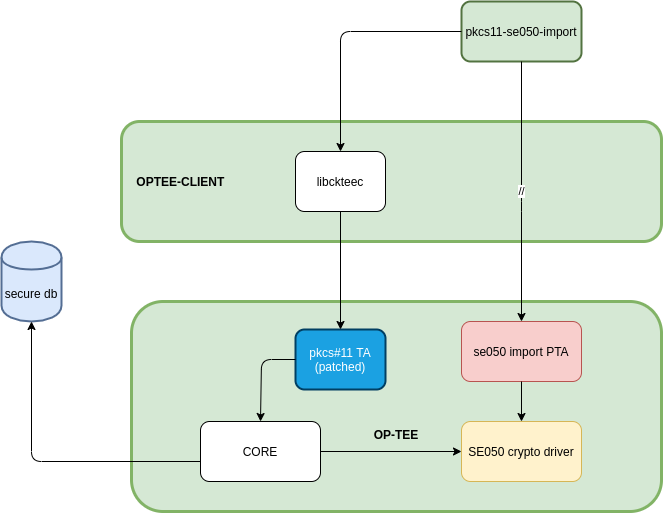
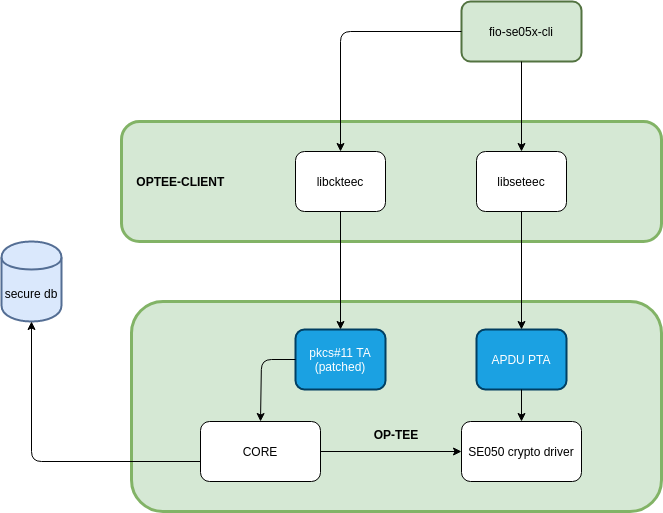
se050: update SCP03 information and provisioning
Updates to reflect the code changes.

diff --git a/source/reference-manual/security/secure-elements/secure-element.050.rst b/source/reference-manual/security/secure-elements/secure-element.050.rst
@@ -122,32 +122,38 @@ Secure Communication Protocol 03
 The SE05x has native support for Global Platform Secure Communication Protocol 03 which
 allows us to protect the integrity of end to end communications between the
 processor and the SE05x. All data sent to the SE05x is software encrypted and all
-data received decrypted in the TEE using a set of predefined keys shipped with
-the devices.
-
-These keys can be securely rotated. Once rotated, they are stored in the TEE secure
-file system.
+data received decrypted in the TEE using a set of session specific keys derived
+from predefined keys shipped with the devices.
 
 .. note::
-      We can choose whether to enable SCP03 right after boot with its default set of
-      keys or at a later time once the RPMB-FS (or REE-FS) are available so the
-      keys can be read from secure storage::
+       The user can select whether to enable SCP03 during secure world initialization
+       or at a later time from the normal world using the `scp03`_ command::
 
-	CFG_CORE_SE05X_SCP03_EARLY=y     : enables SCP03 with its default keys.
-	CFG_CORE_SE05X_SCP03_PROVISION=y : allows SCP03 rotation.
+	CFG_CORE_SE05X_SCP03_EARLY=y : enables SCP03 before the Normal World has booted.
+	CFG_SCP03_PTA=y              : allows SCP03 to be enabled from from the Normal World
 
+The predefined factory keys stored on the SE05X NVM (**static keys** from here
+on) are public and should therefore be rotated to a secret set of values from
+which session keys can be derived. 
 
-To trigger SCP03 key rotation, execute the following Pseudo Trusted
-Application from the REE: the `scp03 PTA`_. This is generally accessible via
-`libseteec`_ and from the u-boot `scp03`_ command.
+To avoid having to store new static keys - to reduce the surface attack and
+simplify the firmware upgrade process - the new set of keys will be derived in
+OP-TEE from its core secret: the Hardware Unique Key (HUK)
 
 .. warning::
-     If the secure database storing the SCP03 keys gets corrupted, the processor will
-     no longer be able to access the SE05x over an encrypted connection. Moreover, there is
-     no protocol defined to recover from this situation. This is why
-     we chose to derive the SCP03 static keys from the platform's Hardware Unique
-     Key so that they can be recreated in the Trust Zone on every boot.
+     Once the static SCP03 keys have been derived from the HUK and programmed
+     into the device's NVM the **HUK MUST NOT CHANGE**.
+     
+     It is equally critical that the HUK remains a **secret.**
 
+There are two different ways of rotating the SCP03 key: with and without user
+intervention from the Normal World.
+
+To rotate the static SCP03 keys from the Trust Zone before the Normal World is
+executing, the user should enable **CFG_CORE_SE05X_SCP03_PROVISION_ON_INIT=y**.
+
+To rotate the static SCP03 keys from the Normal World, the user should enable
+**CFG_CORE_SE05X_SCP03_PROVISION=y** and then use the `scp03`_ command.
 
 SE05x Non Volatile Memory
 -------------------------
@@ -204,18 +210,40 @@ database does not impose restrictions to the user.
           $ pkcs11-tool --module /usr/lib/libckteec.so.0.1 --keypairgen --key-type RSA:4096 --id 01 --token-label fio --pin 87654321 --label SE_7F000001 
 
 
-We developed a very simple PTA `SE05x Object Import Application`_ to interface
-to the TEE and gain access to the SE05x to obtain certificates. This application
-also includes a wrapper to import the keys using the mechanism described
-earlier.
+We have also developed a simple tool, the `SE05x Object Import Application`_,
+that interfaces to the TEE and gains access to the SE05x to import not only keys
+but also certificates.
 
-The *certificates* are retrieved in DER format using the import PTA and then
-written to the pkcs#11 token.
+The *certificates* are retrieved in DER format using the APDU interface
+presented by the driver and then written to the pkcs#11 token.
 
-.. code-block:: none
+The application uses the `libseteec`_ to send the APDUs to the secure element
+and `libckteec`_ to interface to the PKCS#11 implementation.
 
-      $ pkcs11-se05x-import --cert 0xf0000123 --id 45 --pin 87654321
+Find some usage examples in the note below. Be aware that in OP-TEE's PKCS#11
+implementation **each** PKCS#11 slot is indeed a token.
 
+.. note::
+      Import NXP SE051 Certficate with the id 0xf0000123 into OP-TEE
+      pkcs#11'aktualizr' token storage:
+      
+      .. code-block:: none
+		      
+          $ fio-se05x-cli --token-label aktualizr --import-cert 0xf0000123 --id 45 --label fio
+
+      Show NXP SE050 Certficate with the id 0xf0000123 on the console:
+      
+      .. code-block:: none
+		      
+          $ fio-se05x-cli --show-cert 0xf0000123 --se050
+      
+      Import NXP SE051 RSA:2048 bits key with the id 0xf0000123 into OP-TEE
+      pkcs#11 'aktualizr' token storage:
+      
+      .. code-block:: none
+		      
+          $ fio-se05x-cli --token-label aktualizr --import-key 0xf0000123 --id 45 --key-type RSA:2048 --pin 87654321
+      
 
 The following diagram succintly details the overall design:
 
@@ -225,12 +253,12 @@ The following diagram succintly details the overall design:
 
 
 
-To offer universal access to Secure Element we also
-developed and up-streamed an `apdu`_ based interface accessible via libseteec. This
-interface allows the normal world to send APDU frames to the SE05x using
+To offer universal access to Secure Element we developed and up-streamed this
+`apdu`_ based interface accessible via libseteec.
+This interface allows the normal world to send APDU frames to the SE05x using
 OP-TEE's SCP03 secure session.
 
-A python application that uses this interface is `ssscli`_, a tool developed by
+A python application that also uses this interface is `ssscli`_, a tool developed by
 NXP to provide direct access to its secure element:
 
 .. code-block:: none
@@ -263,19 +291,8 @@ NXP to provide direct access to its secure element:
       verify      verify Operation
 
 
-This diagram summarizes the options discussed:
-
-   .. figure:: /_static/se050-pks11-import-options.png
-      :align: center
-      :width: 7in
-
-
-
 .. _TEE pkcs#11 implementation:
    https://github.com/OP-TEE/optee_os/tree/master/ta/pkcs11
-
-.. _SE05x Object Import Application:
-    https://github.com/foundriesio/optee-se050-pkcs11-import
 
 .. _SE05x Plug & Trust Secure Element:
    https://www.nxp.com/docs/en/data-sheet/SE050-DATASHEET.pdf
@@ -316,11 +333,14 @@ This diagram summarizes the options discussed:
 .. _libseteec:
    https://github.com/OP-TEE/optee_client/commit/f4f54e5a76641fda22a49f00294771f948cd4c92
 
+.. _libckteec:
+   https://github.com/OP-TEE/optee_client/tree/master/libckteec
+   
 .. _ssscli:
    https://github.com/foundriesio/plug-and-trust-ssscli
 
 .. _SE05x Object Import Application:
-   https://github.com/foundriesio/optee-se050-pkcs11-import
+   https://github.com/foundriesio/fio-se05x-cli
 
 .. _apdu:
    https://github.com/OP-TEE/optee_client/blob/master/libseteec/src/pta_apdu.h
